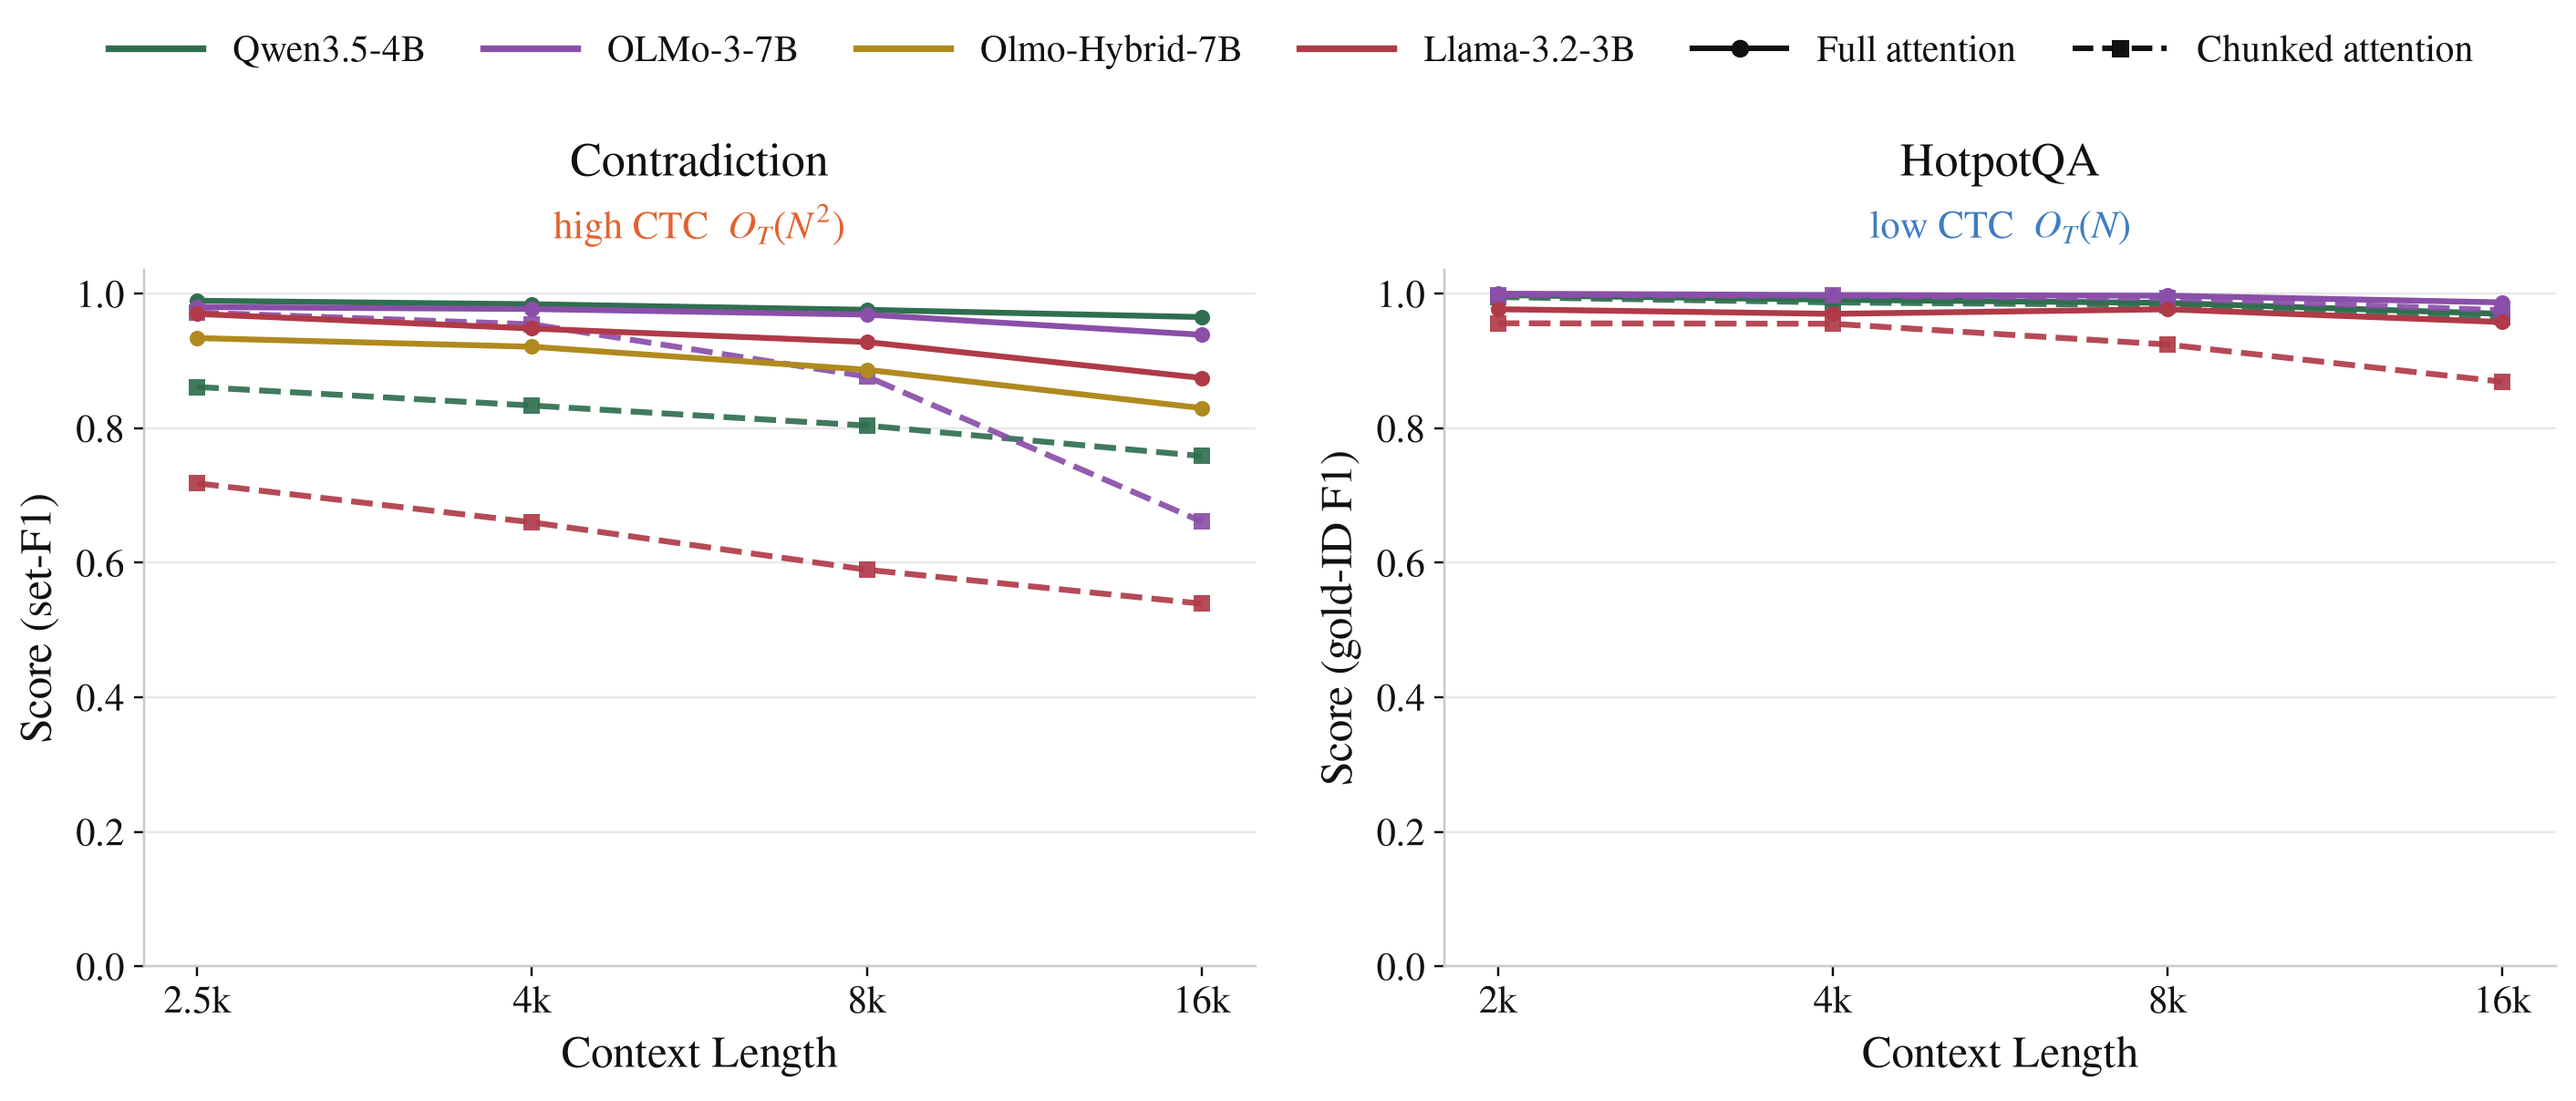
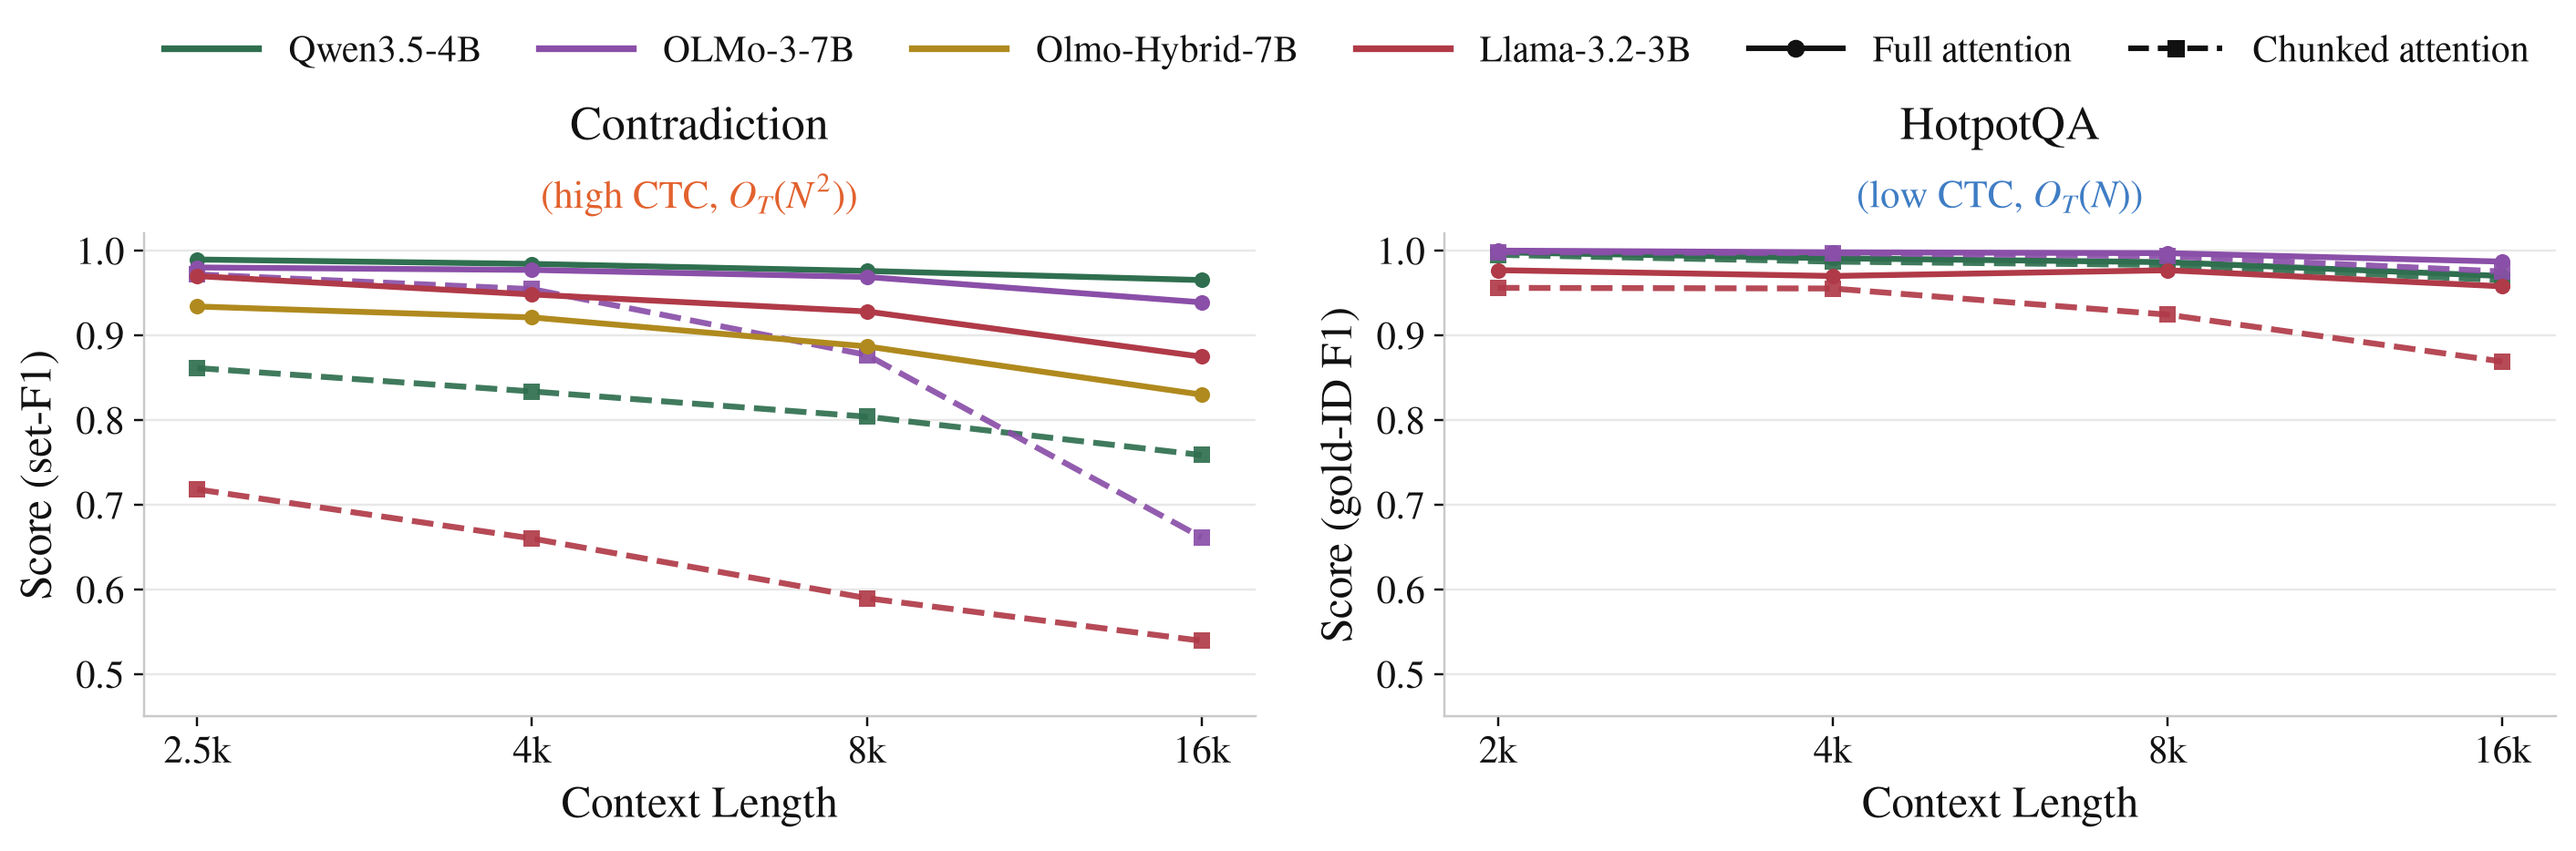
paper: cut the CTC-FAMILY y-axis, parenthesise the class labels, left-align the legend
Figure height 5.6in -> 4.3in. Nothing plots below 0.539, so the 0.0-0.5 band was dead
space in both panels.

⚠ The cut limits are SHARED, not per-panel, and that is the load-bearing part. HotpotQA
spans ~0.87-1.00 and contradiction ~0.54-0.99; autoscaling each panel to its own data
would stretch a 0.09 retrieval drop to look exactly as steep as a 0.34 pair-finding
collapse, which is the one comparison this figure exists to make. YMIN is computed from
the plotted values rather than hardcoded, so a future series cannot be silently clipped.

Claude-Session: https://claude.ai/code/session_015fHu4qv7Nab92QFUcEkpeW

diff --git a/paperdraft/figures/make_fig_family.py b/paperdraft/figures/make_fig_family.py
@@ -50,8 +50,8 @@ _spec.loader.exec_module(_fam)
 SERIES, RUNG_LABEL = _fam.SERIES, _fam.RUNG_LABEL
 
 PANELS = [
-    ("contradiction", "Contradiction", r"set-F1", r"high CTC  $O_T(N^2)$", _fam.RUNGS),
-    ("hotpotqa", "HotpotQA", r"gold-ID F1", r"low CTC  $O_T(N)$", _fam.HPQA_RUNGS),
+    ("contradiction", "Contradiction", r"set-F1", r"(high CTC, $O_T(N^2)$)", _fam.RUNGS),
+    ("hotpotqa", "HotpotQA", r"gold-ID F1", r"(low CTC, $O_T(N)$)", _fam.HPQA_RUNGS),
 ]
 
 # One hue per family, held across both panels so a reader tracks a model by colour alone. Blue and
@@ -84,11 +84,22 @@ plt.rcParams.update({
     "axes.facecolor": "white",
 })
 
-fig, axes = plt.subplots(1, 2, figsize=(13.0, 5.6))
+# ⚠ THE Y-AXIS IS CUT, AND THE LIMITS ARE SHARED ACROSS BOTH PANELS ON PURPOSE.
+# Starting at 0 wasted the bottom half of both panels -- nothing plots below 0.53. But letting each
+# panel autoscale to its own data would be worse than the wasted space: HotpotQA spans roughly
+# 0.87-1.00 and contradiction 0.54-0.99, so independent limits would stretch a 0.09 retrieval drop
+# to look exactly as steep as a 0.34 pair-finding collapse, and the figure's entire argument is
+# that those two are different in magnitude. One shared window keeps the slopes comparable by eye.
+# Computed from the data rather than hardcoded so the floor cannot silently clip a future series.
+_vals = [v for task, *_ in PANELS for d in _fam.SERIES[task].values() for v in d.values()]
+YMIN = min(0.95, (int(min(_vals) * 20) / 20) - 0.05)   # round down to a 0.05 tick, then pad
+YMAX = 1.02
+
+fig, axes = plt.subplots(1, 2, figsize=(13.0, 4.3))
 # top leaves room for three stacked bands above the axes: the figure legend, the panel title, and
 # the CTC-class line under it. The title pad is what separates the latter two -- at the default the
 # class label lands on top of the title.
-fig.subplots_adjust(left=0.06, right=0.985, top=0.765, bottom=0.145, wspace=0.17)
+fig.subplots_adjust(left=0.06, right=0.985, top=0.735, bottom=0.175, wspace=0.17)
 
 summary = []
 for ax, (task, title, metric, cls, rungs) in zip(axes, PANELS):
@@ -112,7 +123,7 @@ for ax, (task, title, metric, cls, rungs) in zip(axes, PANELS):
     ax.set_xticks(xs)
     ax.set_xticklabels([RUNG_LABEL[r] for r in rungs])
     ax.set_xlim(-0.16, len(rungs) - 0.84)
-    ax.set_ylim(0.0, 1.035)
+    ax.set_ylim(YMIN, YMAX)
     ax.set_xlabel("Context Length")
     ax.grid(axis="y", color="#e8e8e8", linewidth=0.8, zorder=0)
     ax.set_axisbelow(True)
@@ -135,7 +146,7 @@ handles += [Line2D([], [], color=TXT, linewidth=2.0, linestyle="-", marker="o",
                    markersize=5.4, label="Full attention"),
             Line2D([], [], color=TXT, linewidth=2.0, linestyle="--", marker="s",
                    markersize=5.4, label="Chunked attention")]
-fig.legend(handles=handles, loc="upper center", bbox_to_anchor=(0.5, 1.005),
+fig.legend(handles=handles, loc="upper left", bbox_to_anchor=(0.055, 1.005),
            ncol=6, frameon=False, handlelength=2.5, columnspacing=1.5,
            fontsize=13.5, labelcolor=TXT)
 
